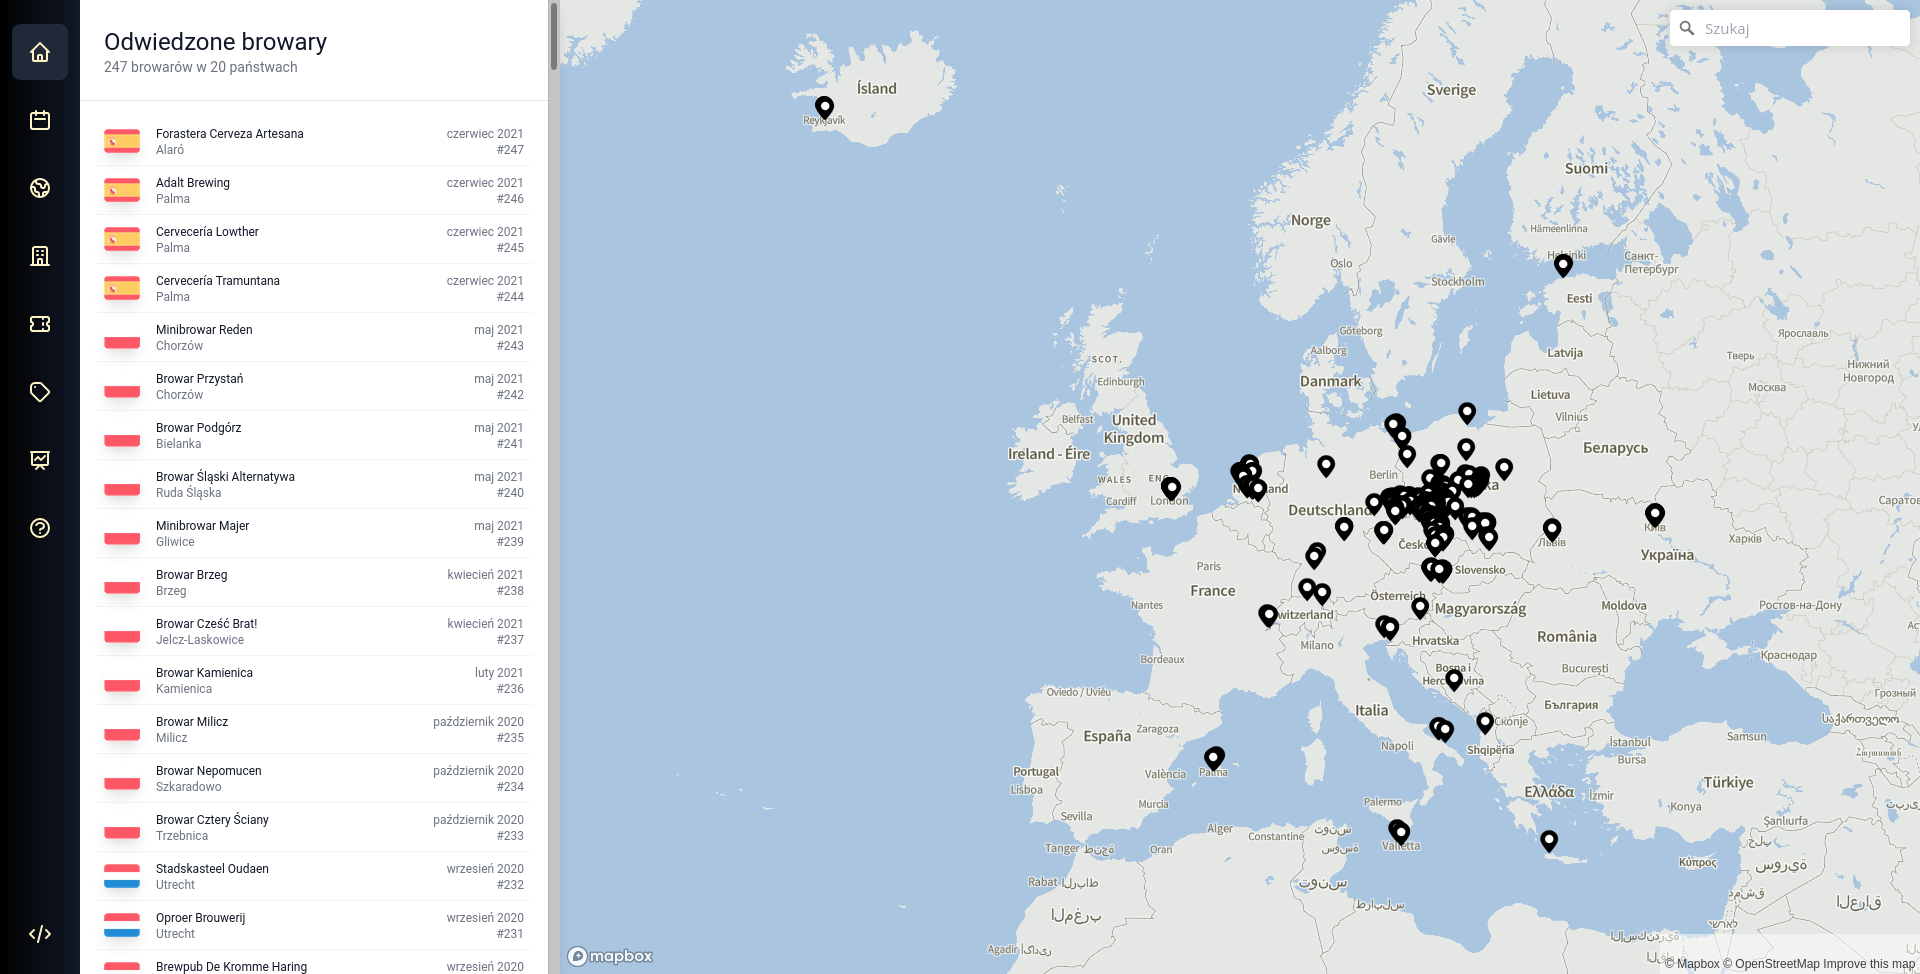
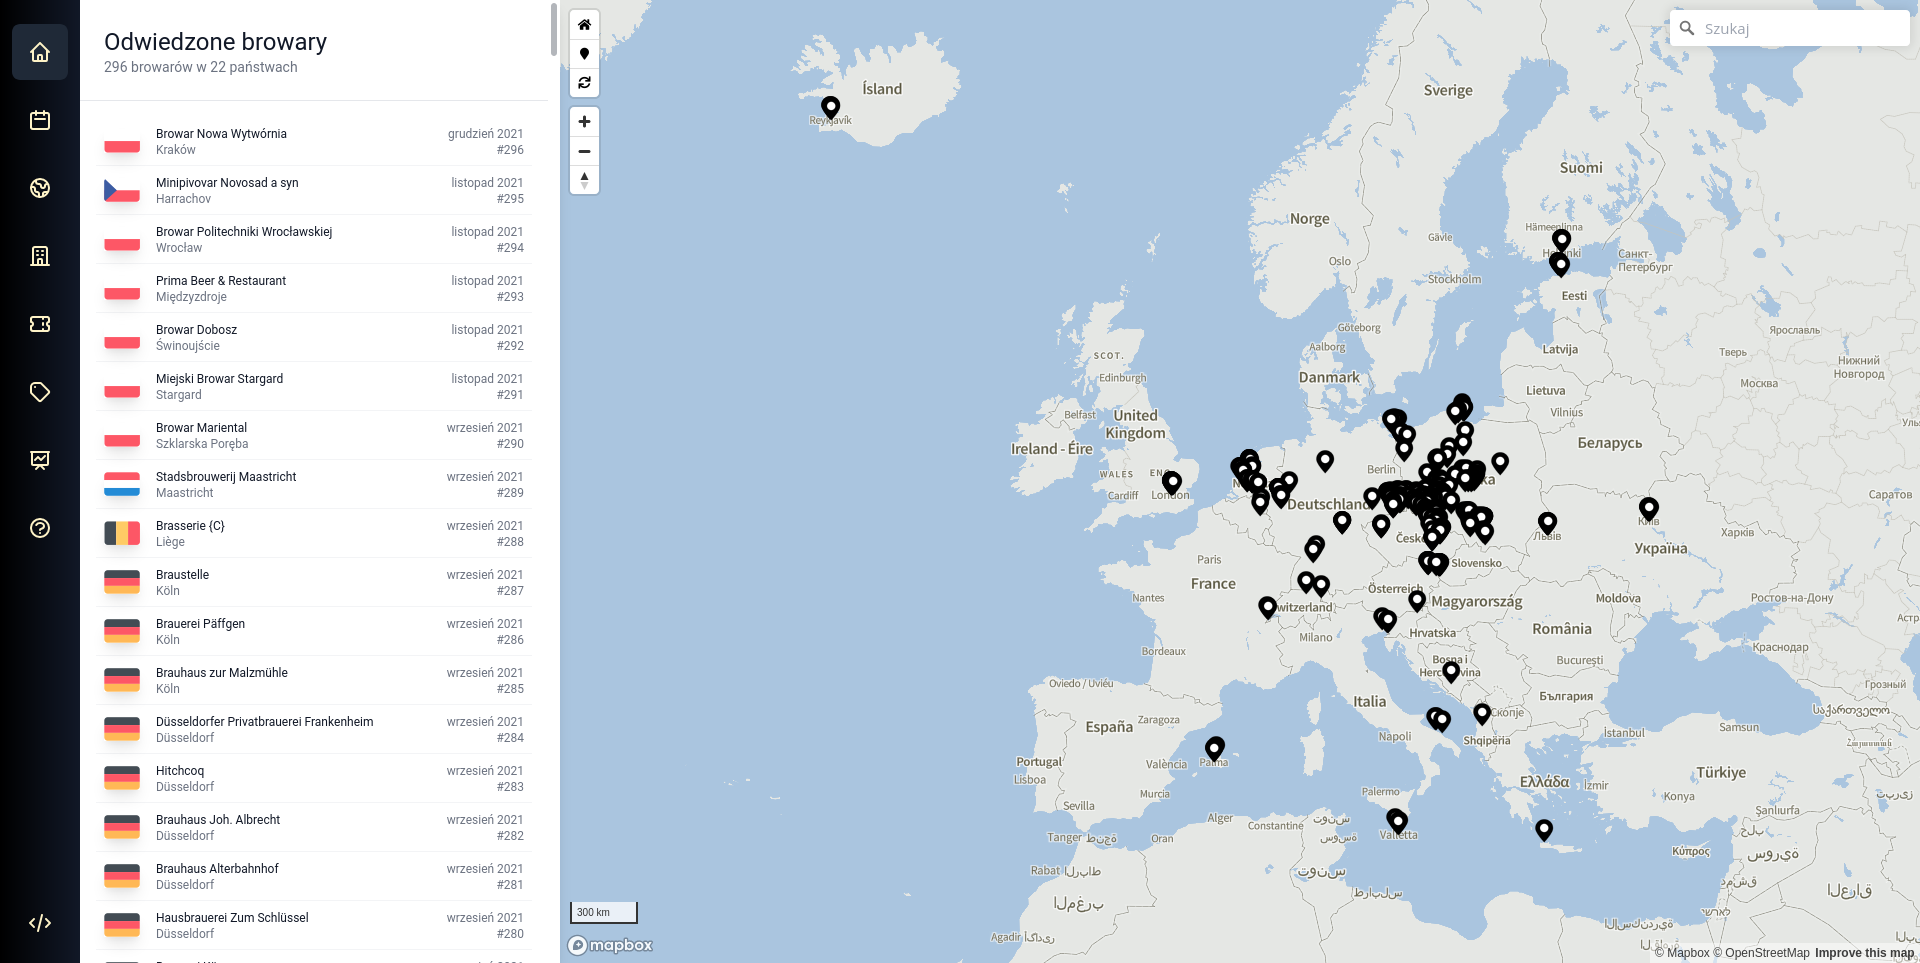
2022 upgade (#49)
* 2022 upgrade

* ecsf

* tagi

diff --git a/testing/integrity/TagsTest.php b/testing/integrity/TagsTest.php
@@ -1,0 +1,48 @@
+<?php
+
+declare(strict_types=1);
+
+use Illuminate\Support\Collection;
+use PHPUnit\Framework\TestCase;
+
+class TagsTest extends TestCase
+{
+    public function testIfTagsAreRelativelyUnique(): void
+    {
+        $tags = $this->getTagsData();
+
+        foreach ($tags as $tag) {
+            foreach ($tags as $comparee) {
+                if ($tag !== $comparee) {
+                    $this->assertGreaterThan(2, levenshtein($tag, $comparee), "Tag ${tag} is too much similar to ${comparee}");
+                }
+            }
+        }
+    }
+
+    protected function getTagsData(): array
+    {
+        $tags = [];
+
+        $countries = json_decode(file_get_contents(__DIR__ . "/../../resources/countries.json"), true)["countries"];
+        $trips = (new Collection(glob(__DIR__ . "/../../resources/trips/*.json")))
+            ->map(fn(string $filename): array => json_decode(file_get_contents($filename), true))
+            ->toArray();
+
+        foreach ($countries as $country) {
+            foreach ($country["tags"] as $tag) {
+                $tags[$tag] = true;
+            }
+        }
+
+        foreach ($trips as $trip) {
+            foreach ($trip["breweries"] as $brewery) {
+                foreach ($brewery["tags"] as $tag) {
+                    $tags[$tag] = true;
+                }
+            }
+        }
+
+        return array_keys($tags);
+    }
+}

diff --git a/backend/Models/Country.php b/backend/Models/Country.php
@@ -16,15 +16,17 @@ class Country implements JsonSerializable, Sluggable
     protected string $symbol;
     protected string $slug;
     protected Collection $breweries;
+    protected Collection $tags;
     protected ?Extremes $extremes = null;
 
-    public function __construct(string $name, string $original, string $symbol)
+    public function __construct(string $name, string $original, string $symbol, array $tags)
     {
         $this->name = $name;
         $this->original = $original;
         $this->symbol = $symbol;
         $this->slug = Str::slug($this->name);
         $this->breweries = new Collection();
+        $this->tags = new Collection($tags);
     }
 
     public function addBrewery(Brewery $brewery): static
@@ -56,6 +58,11 @@ class Country implements JsonSerializable, Sluggable
     public function getBreweries(): Collection
     {
         return $this->breweries;
+    }
+
+    public function getTags(): Collection
+    {
+        return $this->tags;
     }
 
     public function getExtremes(): ?Extremes

diff --git a/backend/Collections/Builders/Countries.php b/backend/Collections/Builders/Countries.php
@@ -15,7 +15,7 @@ class Countries
 
         $data = json_decode($jsonFile, true);
         foreach ($data["countries"] as $countryData) {
-            $countries->addCountry(new Country($countryData["name"], $countryData["original"], $countryData["symbol"]));
+            $countries->addCountry(new Country($countryData["name"], $countryData["original"], $countryData["symbol"], $countryData["tags"]));
         }
 
         return $countries;

diff --git a/testing/backend/ApplicationTest.php b/testing/backend/ApplicationTest.php
@@ -47,7 +47,7 @@ class ApplicationTest extends TestCase
         $this->assertSame(2, $statistics["counters"]["countries"]);
         $this->assertSame(4, $statistics["counters"]["cities"]);
         $this->assertSame(2, $statistics["counters"]["trips"]);
-        $this->assertSame(7, $statistics["counters"]["tags"]);
+        $this->assertSame(9, $statistics["counters"]["tags"]);
     }
 
     public function testBuiltCalendar(): void

diff --git a/backend/Models/Brewery.php b/backend/Models/Brewery.php
@@ -109,7 +109,7 @@ class Brewery implements JsonSerializable, Sluggable
 
     public function getTags(): Collection
     {
-        return $this->tags->sort(fn(Tag $a, Tag $b): int => $a->getName() <=> $b->getName());
+        return $this->tags->sort(fn(Tag $a, Tag $b): int => strtolower($a->getName()) <=> strtolower($b->getName()));
     }
 
     public function getMonthYearDate(): string

diff --git a/backend/Collections/Builders/Trips.php b/backend/Collections/Builders/Trips.php
@@ -51,7 +51,7 @@ class Trips
                         $brewery->addTag($tag);
                     }
 
-                    foreach ($breweryData["tags"] as $tag) {
+                    foreach ($country->getTags() as $tag) {
                         $tag = $tags->firstOrCreate($tag);
                         $brewery->addTag($tag);
                     }

diff --git a/testing/integrity/CountriesTest.php b/testing/integrity/CountriesTest.php
@@ -22,7 +22,7 @@ class CountriesTest extends TestCase
             $this->assertArrayHasKey("symbol", $country);
             $this->assertArrayHasKey("name", $country);
             $this->assertArrayHasKey("original", $country);
-            $this->assertCount(3, $country);
+            $this->assertCount(4, $country);
         }
     }
 

diff --git a/backend/Collections/Tags.php b/backend/Collections/Tags.php
@@ -44,7 +44,6 @@ class Tags implements JsonSerializable, HavingAll
                     ? $a->getName() <=> $b->getName()
                     : $b->getBreweriesCount() <=> $a->getBreweriesCount(),
             )
-            ->filter(fn(Tag $city): bool => $city->getBreweries()->count() > 1)
             ->toArray();
     }
 }

diff --git a/backend/Application/Application.php b/backend/Application/Application.php
@@ -63,9 +63,6 @@ class Application
         $this->filesManager = new FilesManager($this->fileManager);
     }
 
-    /**
-     * @throws GuzzleException
-     */
     public function build(): void
     {
         $this->prepareDirectories();
